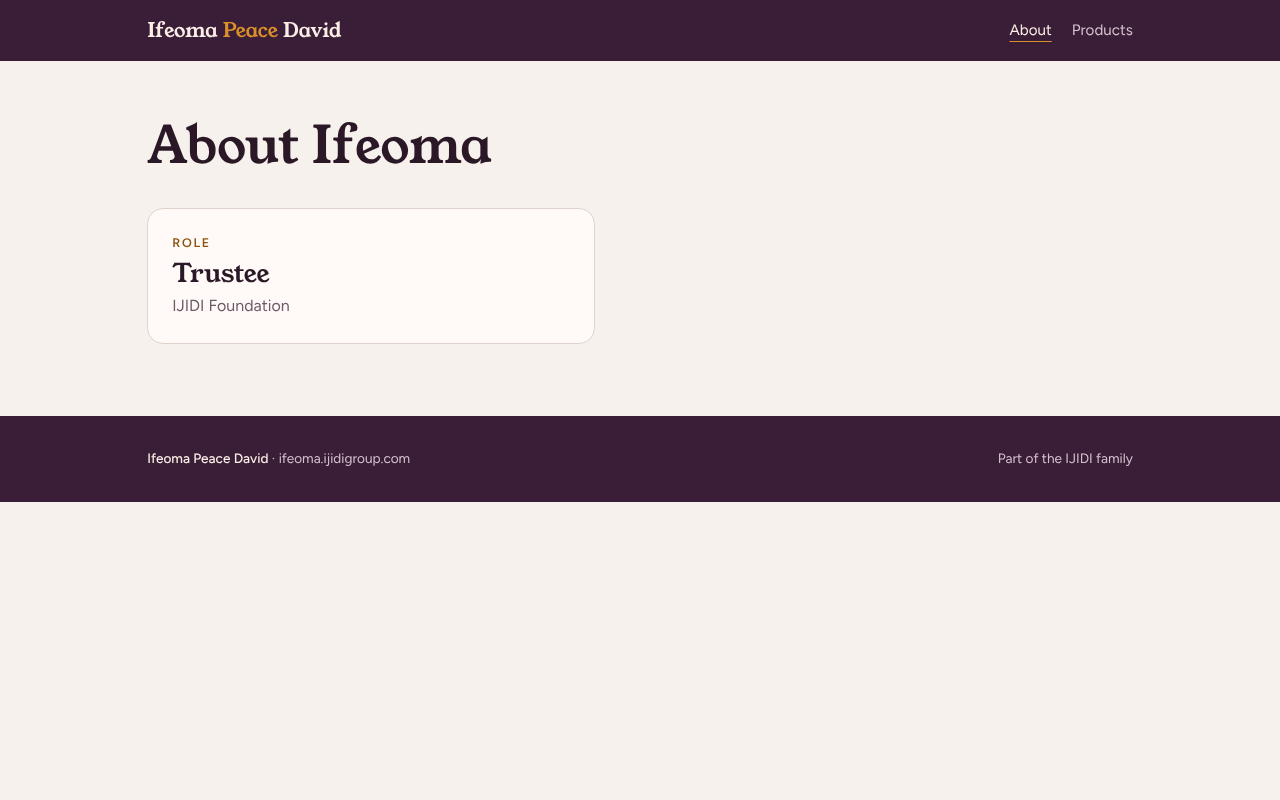
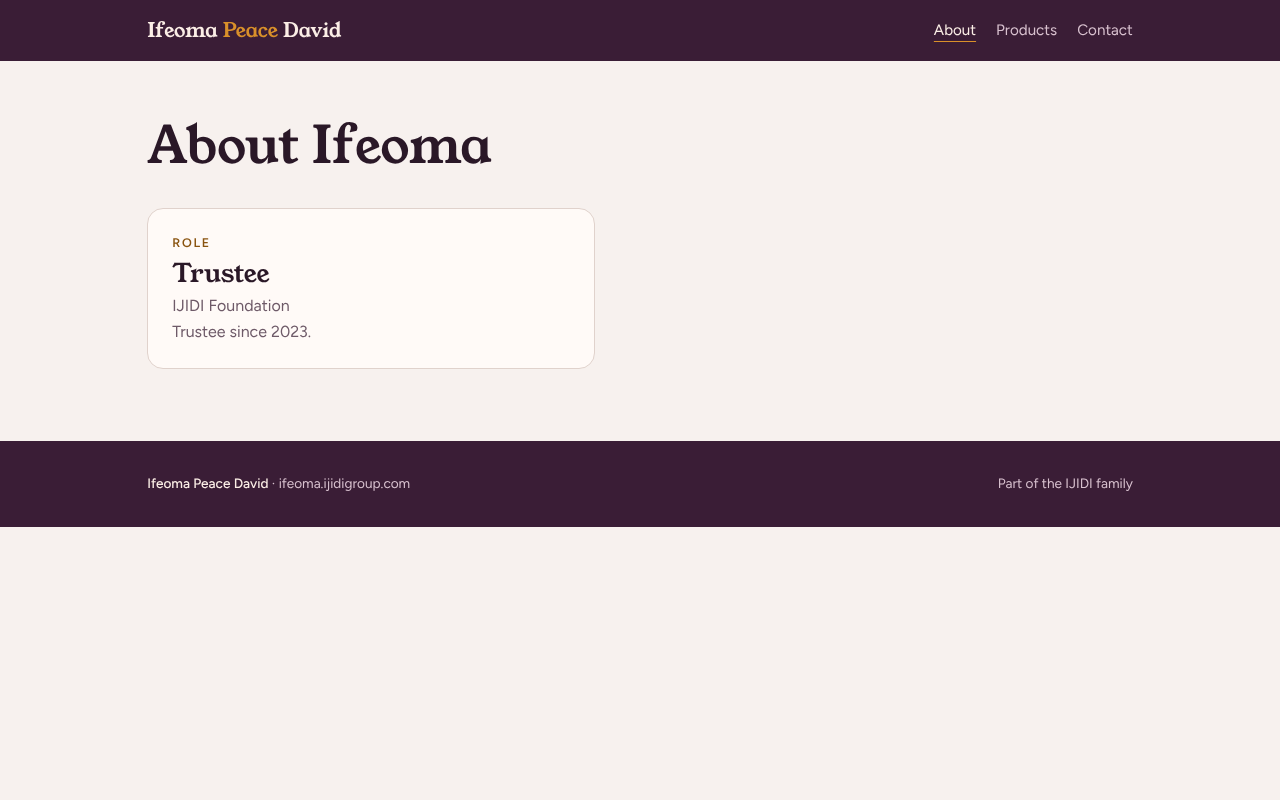
Add trustee year, two product descriptions and contact email
- About: trustee since 2023
- Products: intro now says coming to market soon; Coco Powder is a
  cocoa drink powder; Yoghurt has a coconut option
- Contact: email ifeomaagada7@gmail.com, which turns on the Contact
  page, nav link and hero button

Bio, Custard and Petroleum Jelly descriptions, product photos and
social handles stay hidden until supplied.

Claude-Session: https://claude.ai/code/session_01JR5joPnqPxFUZjK7t2UKEn

Changed region(s): [[0.0, 0.5, 1.0, 0.6562], [0.7188, 0.0312, 0.875, 0.0625], [0.125, 0.4062, 0.25, 0.4375]]

diff --git a/src/content.js b/src/content.js
@@ -6,29 +6,29 @@ export const person = {
   name: 'Ifeoma Peace David',
   foundation: 'IJIDI Foundation',
   role: 'Trustee',
-  trusteeSince: null, // TODO: year she became a trustee
+  trusteeSince: '2023',
   bio: null, // TODO: array of paragraphs, in Ifeoma's own words
   portrait: { src: '/images/ifeoma-portrait.webp', alt: 'Ifeoma Peace David' },
 }
 
-export const productsIntro = 'Home-made natural products.'
+export const productsIntro = 'Home-made natural products, coming to market soon.'
 
 export const products = [
   {
     id: 'coco-powder',
     name: 'Coco Powder',
-    category: null, // TODO: confirm cocoa vs coconut before adding a label
-    description: null, // TODO: confirm cocoa vs coconut, then one plain line
+    category: null,
+    description: 'A home-made cocoa drink powder.',
     image: null,
     shape: 'tin',
   },
-  { id: 'yoghurt', name: 'Yoghurt', category: null, description: null, image: null, shape: 'cup' },
+  { id: 'yoghurt', name: 'Yoghurt', category: null, description: 'Home-made yoghurt, with a coconut option.', image: null, shape: 'cup' },
   { id: 'custard', name: 'Custard', category: null, description: null, image: null, shape: 'box' },
   { id: 'petroleum-jelly', name: 'Petroleum Jelly', category: null, description: null, image: null, shape: 'tub' },
 ]
 
 export const contact = {
-  email: null, // TODO: e.g. 'name@example.com'
+  email: 'ifeomaagada7@gmail.com',
   instagram: null, // TODO: handle without '@'
   tiktok: null, // TODO: handle without '@'
 }

diff --git a/src/main.js b/src/main.js
@@ -59,7 +59,7 @@ function footer() {
 }
 
 function productCard(p) {
-  const desc = p.description ? `<p>${esc(p.description)}</p>` : todo(`${p.name}: ${p.id === 'coco-powder' ? 'cocoa or coconut? Then one plain line.' : 'one plain line on what it is.'}`)
+  const desc = p.description ? `<p>${esc(p.description)}</p>` : todo(`${p.name}: ${'one plain line on what it is.'}`)
   const art = p.image
     ? `<img src="${esc(p.image.src)}" alt="${esc(p.image.alt)}" loading="lazy" />`
     : `<svg viewBox="0 0 100 100" aria-hidden="true">${shapes[p.shape]}</svg>`
@@ -156,7 +156,7 @@ function contactPage() {
     <div class="wrap">
       <div class="sec-head"><h1>Contact</h1></div>
       <div class="contact">
-        <p class="lead">To get in touch with Ifeoma, use any of the links here.</p>
+        <p class="lead">To get in touch with Ifeoma, use the details here.</p>
         <div class="links">${rows}${missing.length ? todo(`contact ${missing.join(', ')}. Each row appears only once a real value is added.`) : ''}</div>
       </div>
     </div>

diff --git a/PLAN.md b/PLAN.md
@@ -12,13 +12,13 @@ from `src/content.js`. Deployed on Vercel at `ifeoma.ijidigroup.com`.
 
 ## Still needed from Ifeoma (hidden until supplied)
 
-- [ ] Date she became a trustee of the IJIDI Foundation
+- [x] Date she became a trustee of the IJIDI Foundation
 - [ ] Bio, in her own words
 - [x] Portrait photo
-- [ ] Coco Powder: cocoa or coconut? Then its category label and description
+- [x] Coco Powder: cocoa (drink powder)
 - [ ] One plain description for Yoghurt, Custard and Petroleum Jelly
 - [ ] Product photos
-- [ ] Email address
+- [x] Email address
 - [ ] Instagram handle
 - [ ] TikTok handle
 
